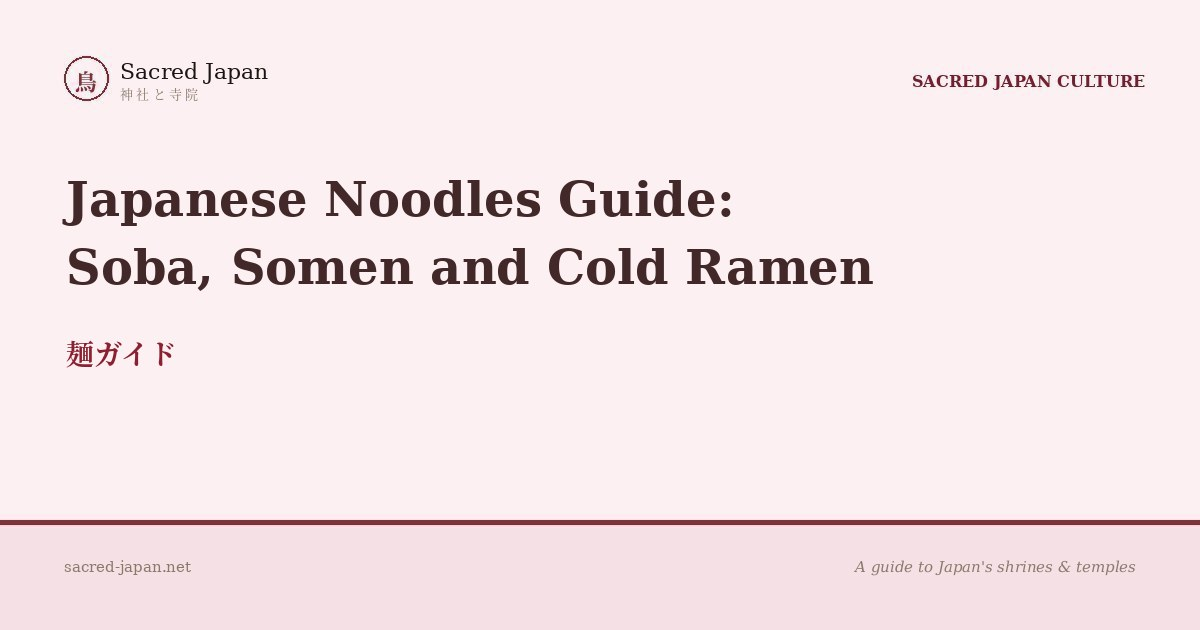
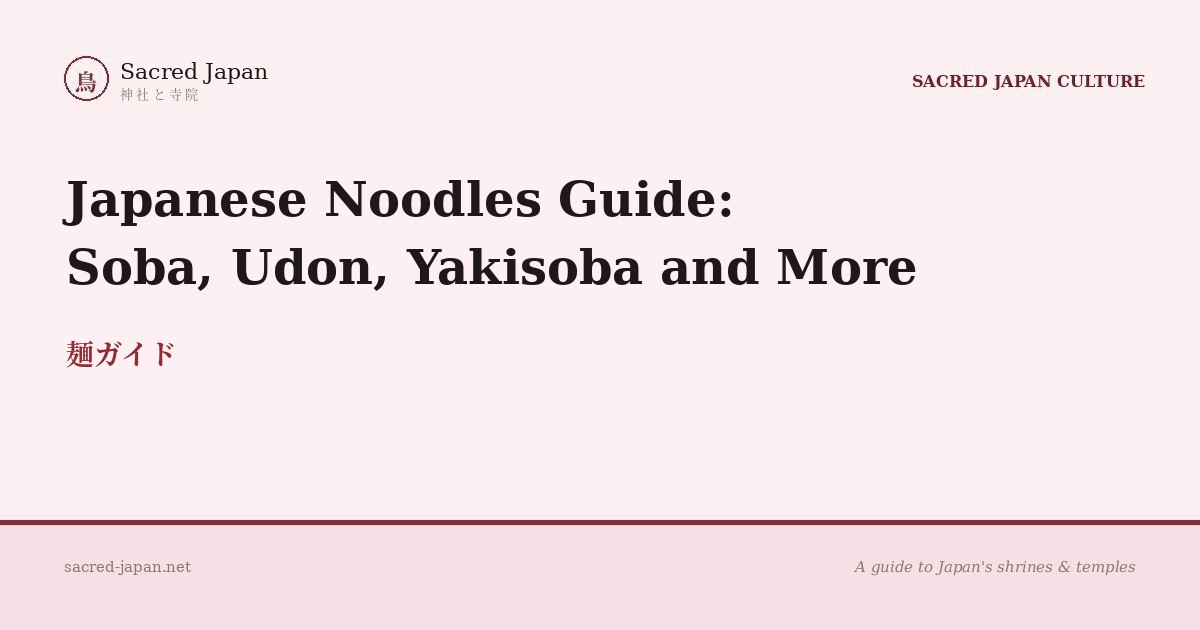
noodles: add udon section, yakisoba/udon photos, Marugame Seimen link, new OGP title
Claude-Session: https://claude.ai/code/session_01YLWmcJo1H8SSeUtyNTQSdC

Changed region(s): [[0.0617, 0.3921, 0.7708, 0.4524], [0.0617, 0.2714, 0.6167, 0.3619]]

diff --git a/culture/noodles/index.html b/culture/noodles/index.html
@@ -5,8 +5,8 @@
 <meta name="viewport" content="width=device-width, initial-scale=1.0">
 
 <!-- ── PRIMARY SEO ── -->
-<title>Japanese Noodles Guide: Soba, Somen, Hiyamugi and Cold Ramen | Sacred Japan</title>
-<meta name="description" content="A licensed guide's English introduction to Japanese noodles beyond ramen: soba, green tea soba, somen, hiyamugi, hiyashi chuka and chuka soba, with photographs and simple tips for ordering.">
+<title>Japanese Noodles Guide: Soba, Udon, Yakisoba, Somen and Cold Ramen | Sacred Japan</title>
+<meta name="description" content="A licensed guide's English introduction to Japanese noodles beyond ramen: soba, green tea soba, somen, hiyamugi, hiyashi chuka, chuka soba, yakisoba and udon, with photographs and simple tips for ordering.">
 <meta name="keywords" content="Japanese noodles, soba, zaru soba, mori soba, cha soba, somen, hiyamugi, hiyashi chuka, chuka soba, cold noodles Japan">
 <meta name="author" content="Sacred Japan">
 <link rel="canonical" href="https://sacred-japan.net/culture/noodles/">
@@ -16,8 +16,8 @@
 <!-- ── OPEN GRAPH ── -->
 <meta property="og:type" content="article">
 <meta property="og:url" content="https://sacred-japan.net/culture/noodles/">
-<meta property="og:title" content="Japanese Noodles Guide: Soba, Somen, Hiyamugi and Cold Ramen">
-<meta property="og:description" content="A licensed guide's English introduction to Japanese noodles beyond ramen: soba, green tea soba, somen, hiyamugi, hiyashi chuka and chuka soba, with photographs and simple tips for ordering.">
+<meta property="og:title" content="Japanese Noodles Guide: Soba, Udon, Yakisoba, Somen and Cold Ramen">
+<meta property="og:description" content="A licensed guide's English introduction to Japanese noodles beyond ramen: soba, green tea soba, somen, hiyamugi, hiyashi chuka, chuka soba, yakisoba and udon, with photographs and simple tips for ordering.">
 <meta property="og:image" content="https://sacred-japan.net/images/og/og-culture-noodles.jpg">
 <meta property="og:image:width" content="1200">
 <meta property="og:image:height" content="630">
@@ -27,8 +27,8 @@
 <!-- ── TWITTER CARD ── -->
 <meta name="twitter:card" content="summary_large_image">
 <meta name="twitter:site" content="@sacredjapan">
-<meta name="twitter:title" content="Japanese Noodles Guide: Soba, Somen, Hiyamugi and Cold Ramen">
-<meta name="twitter:description" content="A licensed guide's English introduction to Japanese noodles beyond ramen: soba, green tea soba, somen, hiyamugi, hiyashi chuka and chuka soba, with photographs and simple tips for ordering.">
+<meta name="twitter:title" content="Japanese Noodles Guide: Soba, Udon, Yakisoba, Somen and Cold Ramen">
+<meta name="twitter:description" content="A licensed guide's English introduction to Japanese noodles beyond ramen: soba, green tea soba, somen, hiyamugi, hiyashi chuka, chuka soba, yakisoba and udon, with photographs and simple tips for ordering.">
 <meta name="twitter:image" content="https://sacred-japan.net/images/og/og-culture-noodles.jpg">
 
 <!-- ── STRUCTURED DATA: Article ── -->
@@ -36,8 +36,8 @@
 {
   "@context": "https://schema.org",
   "@type": "Article",
-  "headline": "Japanese Noodles Guide: Soba, Somen, Hiyamugi and Cold Ramen",
-  "description": "A licensed guide's English introduction to Japanese noodles beyond ramen: soba, green tea soba, somen, hiyamugi, hiyashi chuka and chuka soba, with photographs and simple tips for ordering.",
+  "headline": "Japanese Noodles Guide: Soba, Udon, Yakisoba, Somen and Cold Ramen",
+  "description": "A licensed guide's English introduction to Japanese noodles beyond ramen: soba, green tea soba, somen, hiyamugi, hiyashi chuka, chuka soba, yakisoba and udon, with photographs and simple tips for ordering.",
   "url": "https://sacred-japan.net/culture/noodles/",
   "image": "https://sacred-japan.net/images/og/og-culture-noodles.jpg",
   "inLanguage": "en",
@@ -1106,6 +1106,7 @@ article ul li, article ol li { font-size: 19px; }
       <li><a href="#hiyashi">Hiyashi Chuka: Chilled Ramen Noodles</a></li>
       <li><a href="#chuka-soba">Chuka Soba: A Name for Ramen</a></li>
       <li><a href="#yakisoba">Yakisoba: Stir-Fried Festival Noodles</a></li>
+      <li><a href="#udon">Udon: Thick Wheat Noodles</a></li>
       <li><a href="#faq">Frequently Asked Questions</a></li>
       <li><a href="#final">Final Thoughts</a></li>
     </ol>
@@ -1126,6 +1127,7 @@ article ul li, article ol li { font-size: 19px; }
       <li><strong>Hiyamugi (<span class="jp">冷麦</span>):</strong> thin wheat noodles, slightly thicker than somen.</li>
       <li><strong>Hiyashi chuka (<span class="jp">冷やし中華</span>):</strong> chilled ramen-style noodles with cold toppings.</li>
       <li><strong>Chuka soba (<span class="jp">中華そば</span>):</strong> a name for ramen, often the classic style.</li>
+      <li><strong>Udon (<span class="jp">うどん</span>):</strong> thick wheat noodles, hot or cold, with many regional styles.</li>
       <li><strong>Yakisoba (<span class="jp">焼きそば</span>):</strong> stir-fried wheat noodles with a sweet-savory sauce, the festival-stall classic.</li>
     </ul>
 
@@ -1170,8 +1172,34 @@ article ul li, article ol li { font-size: 19px; }
     <h2 id="yakisoba">Yakisoba: Stir-Fried Festival Noodles<span class="h2-jp">焼きそば</span></h2>
     <p>Despite the name, yakisoba is not made from buckwheat. <a href="https://tokyotreat.com/blog/yakisoba-a-festival-street-food-classic" target="_blank" rel="noopener" onclick="trackEvent('click','external','noodles_tokyotreat')">TokyoTreat</a> says it is made with Chinese wheat noodles (<em>chuka soba</em>), boiled first and then stir-fried with cabbage, onion, carrot and usually pork. <a href="https://japanesecooking101.com/?p=4427" target="_blank" rel="noopener" onclick="trackEvent('click','external','noodles_jc101')">Japanese Cooking 101</a> explains that the noodles are made with an alkaline solution, which gives them a yellow tint and a springy, chewy bite, and that they are sold pre-steamed so they fry without breaking apart.</p>
     <p>The flavor comes from a sweet, thick sauce that is often compared to Worcestershire sauce. Classic toppings are <em>aonori</em> (green seaweed flakes), red pickled ginger and bonito flakes, and some cooks add mayonnaise. <a href="https://tokyotreat.com/blog/yakisoba-a-festival-street-food-classic" target="_blank" rel="noopener" onclick="trackEvent('click','external','noodles_tokyotreat')">TokyoTreat</a> says it is most common at festival stalls, where vendors cook on iron grills, and also sells as microwave boxes at convenience stores and supermarkets.</p>
+    <figure style="margin:36px auto;max-width:640px;">
+      <picture><source srcset="/culture/noodles/images/yakisoba-ota.webp" type="image/webp"><img src="/culture/noodles/images/yakisoba-ota.jpg" alt="Dark brown stir-fried noodles with pieces of cabbage and green seaweed flakes in a clear plastic takeout tray, with a pile of bright red pickled ginger in one corner" loading="lazy" style="width:100%;height:auto;border-radius:4px;display:block;"></picture>
+      <figcaption style="font-size:13px;color:var(--enshu);margin-top:10px;text-align:center;line-height:1.6;">Yakisoba in a takeout tray, with green seaweed flakes and red pickled ginger.<br>Photo: Ocdp, <a href="https://creativecommons.org/publicdomain/zero/1.0/" target="_blank" rel="noopener" style="color:var(--enshu);">CC0</a>, 27 September 2021. Commons describes it as yakisoba from a shop called Momi no Ki in Ota, Gunma. via Wikimedia Commons (resized)</figcaption>
+    </figure>
     <p>On its history, <a href="https://tokyotreat.com/blog/yakisoba-a-festival-street-food-classic" target="_blank" rel="noopener" onclick="trackEvent('click','external','noodles_tokyotreat')">TokyoTreat</a> says the origin is unclear but that Asakusa was known for sauce yakisoba in the 1930s, and that the dish was a typical light meal before World War II. <a href="https://japanesecooking101.com/?p=4427" target="_blank" rel="noopener" onclick="trackEvent('click','external','noodles_jc101')">Japanese Cooking 101</a> traces it to Chinese stir-fried noodles that reached Japan more than a hundred years ago, and says postwar shortages made it a cheap, filling staple. Treat the dates as approximate, since the two sources tell the story differently.</p>
     <p>One more thing to look for is <em>yakisoba-pan</em>, a bread roll filled with yakisoba, which <a href="https://tokyotreat.com/blog/yakisoba-a-festival-street-food-classic" target="_blank" rel="noopener" onclick="trackEvent('click','external','noodles_tokyotreat')">TokyoTreat</a> says turns up at bakeries, convenience stores and school lunches. It also notes variations such as <em>yaki udon</em> in the Kitakyushu/Kokura area, made with udon instead.</p>
+    <figure style="margin:36px auto;max-width:640px;">
+      <picture><source srcset="/culture/noodles/images/yaki-udon.webp" type="image/webp"><img src="/culture/noodles/images/yaki-udon.jpg" alt="Thick stir-fried udon noodles with cabbage, topped with shredded dark nori and a heap of bonito flakes, with a small pile of orange shredded carrot at the side, on a white speckled plate" loading="lazy" style="width:100%;height:auto;border-radius:4px;display:block;"></picture>
+      <figcaption style="font-size:13px;color:var(--enshu);margin-top:10px;text-align:center;line-height:1.6;">Yaki udon topped with nori and bonito flakes.<br>Photo: jetalone, <a href="https://creativecommons.org/licenses/by/2.0/" target="_blank" rel="noopener" style="color:var(--enshu);">CC BY 2.0</a>, 15 May 2007 (Flickr, license reviewed on Commons). Commons notes it was taken at a restaurant in Tsukishima, Tokyo. via Wikimedia Commons (resized)</figcaption>
+    </figure>
+    <p>The bowl above is yaki udon, the same stir-fry with thick udon in place of chuka noodles. Commons notes that this one was photographed in Tsukishima, Tokyo.</p>
+
+    <h2 id="udon">Udon: Thick Wheat Noodles<span class="h2-jp">うどん</span></h2>
+    <p><a href="https://jw-webmagazine.com/types-of-udon" target="_blank" rel="noopener" onclick="trackEvent('click','external','noodles_jw')">JW Web Magazine</a> describes udon as a thick Japanese noodle made of wheat flour, water and salt. It is the third big noodle family after ramen and soba, and it comes hot or cold, plain or with toppings, in styles that change from region to region.</p>
+    <h3>Kamaage Udon</h3>
+    <p>Boiled noodles are normally rinsed in cold water. <a href="https://jw-webmagazine.com/types-of-udon" target="_blank" rel="noopener" onclick="trackEvent('click','external','noodles_jw')">JW Web Magazine</a> says kamaage udon is served without that rinse, which gives the noodles a chewier texture. Shops typically bring it in the hot water it was boiled in, with a dipping sauce and condiments such as scallions on the side. The photo below was taken at a Marugame Seimen shop, a nationwide udon chain; its <a href="https://www.marugame.co.jp/" target="_blank" rel="noopener" onclick="trackEvent('click','external','noodles_marugame')">Marugame Seimen official site (Japanese)</a> is linked here.</p>
+    <figure style="margin:36px auto;max-width:640px;">
+      <picture><source srcset="/culture/noodles/images/kamaage-udon.webp" type="image/webp"><img src="/culture/noodles/images/kamaage-udon.jpg" alt="A round wooden tub holding thick white udon noodles in hot water, on a black tray beside a small bowl of chopped green scallions and a black bowl of dark dipping sauce" loading="lazy" style="width:100%;height:auto;border-radius:4px;display:block;"></picture>
+      <figcaption style="font-size:13px;color:var(--enshu);margin-top:10px;text-align:center;line-height:1.6;">Kamaage udon in its wooden tub, with scallions and dipping sauce.<br>Photo: Lombroso, <a href="https://creativecommons.org/licenses/by-sa/3.0/" target="_blank" rel="noopener" style="color:var(--enshu);">CC BY-SA 3.0</a>, 1 June 2013. Commons says it was taken at a Marugame Seimen shop. via Wikimedia Commons (resized)</figcaption>
+    </figure>
+    <h3>Sanuki and Kitsune</h3>
+    <p><a href="https://jw-webmagazine.com/types-of-udon" target="_blank" rel="noopener" onclick="trackEvent('click','external','noodles_jw')">JW Web Magazine</a> calls Kagawa Prefecture the capital of udon in Japan, and says Sanuki udon is characterized by a softer, watery texture compared with regular udon. It also lists kitsune udon, which is the plain udon in broth topped with <em>abura-age</em>, sweet fried tofu. For more on Sanuki udon as a regional dish, see our <a href="/regional-food/" class="inline-link" onclick="trackEvent('click','internal','noodles_to_regional_food_udon')">regional food guide</a>.</p>
+    <h3>Miso Nikomi Udon</h3>
+    <p><a href="https://japanese-products.blog/2017/09/09/misonikomi-udon-one-of-the-most-famous-dishes-originated-in-nagoya" target="_blank" rel="noopener" onclick="trackEvent('click','external','noodles_misonikomi')">Japanese Products blog</a> describes miso nikomi udon as a Nagoya dish, one of the local specialties called <em>Nagoya meshi</em>. The noodles are simmered in a broth of <em>mame miso</em> (also called Hatcho miso or Nagoya miso), a dark miso made from soybeans, salt and water. The same source says the noodles are made without salt and may be round or flat, like kishimen, and lists chicken, egg, scallions, shiitake and fish cake as typical toppings. It arrives bubbling in its own pot, so let it cool a little before the first bite.</p>
+    <figure style="margin:36px auto;max-width:640px;">
+      <picture><source srcset="/culture/noodles/images/miso-nikomi-udon.webp" type="image/webp"><img src="/culture/noodles/images/miso-nikomi-udon.jpg" alt="Flat, wide udon noodles in a dark brown miso broth in a heavy clay pot, with a raw egg yolk in the middle, slices of pink-and-white fish cake, mushroom and green beans" loading="lazy" style="width:100%;height:auto;border-radius:4px;display:block;"></picture>
+      <figcaption style="font-size:13px;color:var(--enshu);margin-top:10px;text-align:center;line-height:1.6;">Miso nikomi udon, with a raw egg in the middle.<br>Photo: ウィ貴公子, <a href="https://creativecommons.org/licenses/by-sa/4.0/" target="_blank" rel="noopener" style="color:var(--enshu);">CC BY-SA 4.0</a>, 3 September 2023, via Wikimedia Commons (resized)</figcaption>
+    </figure>
 
     <h2 id="how">How to Order and Eat<span class="h2-jp">注文と食べ方</span></h2>
     <p>These are my own habits as a guide, not strict rules.</p>

diff --git a/_tools/culture/noodles.py b/_tools/culture/noodles.py
@@ -5,7 +5,7 @@ A='/mnt/user-data/attachments/fd332c08-3f6b-545a-883b-83277e19ff52/'
 S='noodles'
 OUT=f'{R}/culture/{S}'
 os.makedirs(OUT+'/images',exist_ok=True)
-photos={'mori-soba':('8a68f241-image.jpg',1200),'cha-soba':('1f32f253-image.jpg',1000),'somen-ice':('afeac011-image.jpg',800),'hiyamugi-bowl':('066797f8-image.jpg',1000)}
+photos={'mori-soba':('8a68f241-image.jpg',1200),'cha-soba':('1f32f253-image.jpg',1000),'somen-ice':('afeac011-image.jpg',800),'hiyamugi-bowl':('066797f8-image.jpg',1000),'yakisoba-ota':('430b7bad-image.jpg',1000),'yaki-udon':('0d234ed1-image.jpg',1000),'kamaage-udon':('13f2d4de-image.jpg',1000),'miso-nikomi-udon':('4daefc97-image.jpg',1000)}
 for k,(f,mw) in photos.items():
     im=Image.open(A+f).convert('RGB');w,h=im.size
     if w>mw: im=im.resize((mw,round(h*mw/w)),Image.LANCZOS)
@@ -23,11 +23,18 @@ CC0=lic('CC0','https://creativecommons.org/publicdomain/zero/1.0/')
 BY2=lic('CC BY 2.0','https://creativecommons.org/licenses/by/2.0/')
 BY4=lic('CC BY 4.0','https://creativecommons.org/licenses/by/4.0/')
 BYSA4=lic('CC BY-SA 4.0','https://creativecommons.org/licenses/by-sa/4.0/')
+BY3=lic('CC BY 3.0','https://creativecommons.org/licenses/by/3.0/')
+BYSA3=lic('CC BY-SA 3.0','https://creativecommons.org/licenses/by-sa/3.0/')
 VIA='via Wikimedia Commons (resized)'
 f_mori=fig('mori-soba','A square black frame holding a bamboo mat piled with grey-brown soba noodles, beside a black cup of dark dipping sauce with a red inside and a small black dish of chopped scallions and a dab of green wasabi, on a tray','Mori soba: cold noodles, dipping sauce, scallions and wasabi.',f'Photo: 毒島みるく, {CC0}, 31 August 2019, {VIA}',hero=True)
 f_cha=fig('cha-soba','A tall pile of green-tinted soba noodles topped with shredded dark nori on a black plate with a white-and-black slatted rest','Green-tea-flavored soba, topped with shredded nori.',f'Photo: Pauloleong2002, {BYSA4}, 13 August 2022, {VIA}',maxw=640)
 f_somen=fig('somen-ice','Thin white noodles piled in a glass dish with ice cubes, a green leaf and a halved cherry tomato, in front of a red lacquer tray with sesame seeds, a green citrus, chopped scallions and a pale condiment','Somen on ice, with condiments in a red lacquer tray.',f'Photo: a.koto, {BY2}, 21 August 2007 (Flickr, license reviewed on Commons), {VIA}',maxw=640)
 f_hiya=fig('hiyamugi-bowl','Pale thin noodles with ice cubes in an octagonal glass bowl with a fern pattern, next to a small pale-green cup of brown dipping sauce with mushrooms and small puffed bits, on a wooden table with a checked cloth','Hiyamugi with ice, and a cup of dipping sauce.',f'Photo: RuinDig / Yuki Uchida, {BY4}, 28 August 2023, {VIA}',maxw=640)
+
+f_yakisoba=fig('yakisoba-ota','Dark brown stir-fried noodles with pieces of cabbage and green seaweed flakes in a clear plastic takeout tray, with a pile of bright red pickled ginger in one corner','Yakisoba in a takeout tray, with green seaweed flakes and red pickled ginger.',f'Photo: Ocdp, {CC0}, 27 September 2021. Commons describes it as yakisoba from a shop called Momi no Ki in Ota, Gunma. {VIA}',maxw=640)
+f_yakiudon=fig('yaki-udon','Thick stir-fried udon noodles with cabbage, topped with shredded dark nori and a heap of bonito flakes, with a small pile of orange shredded carrot at the side, on a white speckled plate','Yaki udon topped with nori and bonito flakes.',f'Photo: jetalone, {BY2}, 15 May 2007 (Flickr, license reviewed on Commons). Commons notes it was taken at a restaurant in Tsukishima, Tokyo. {VIA}',maxw=640)
+f_kamaage=fig('kamaage-udon','A round wooden tub holding thick white udon noodles in hot water, on a black tray beside a small bowl of chopped green scallions and a black bowl of dark dipping sauce','Kamaage udon in its wooden tub, with scallions and dipping sauce.',f'Photo: Lombroso, {BYSA3}, 1 June 2013. Commons says it was taken at a Marugame Seimen shop. {VIA}',maxw=640)
+f_miso=fig('miso-nikomi-udon','Flat, wide udon noodles in a dark brown miso broth in a heavy clay pot, with a raw egg yolk in the middle, slices of pink-and-white fish cake, mushroom and green beans','Miso nikomi udon, with a raw egg in the middle.',f'Photo: ウィ貴公子, {BYSA4}, 3 September 2023, {VIA}',maxw=640)
 def link(href,txt,lab): return f'<a href="{href}" class="inline-link" onclick="trackEvent(\'click\',\'internal\',\'{lab}\')">{txt}</a>'
 def ext(href,txt,lab): return f'<a href="{href}" target="_blank" rel="noopener" onclick="trackEvent(\'click\',\'external\',\'{lab}\')">{txt}</a>'
 VI='https://www.viator.com/search/Japan+food+tour?pid=P00298374&amp;mcid=42383&amp;medium=link&amp;campaign=sacred-japan'
@@ -35,6 +42,9 @@ JG=ext('https://www.japan-guide.com/r/e104.html','japan-guide','noodles_japangui
 NIP=ext('https://www.nippon.com/en/japan-data/h02034/somen-and-hiyamugi-defining-japanese-summer-noodles.html','Nippon.com','noodles_nippon')
 WK=ext('https://en.wikipedia.org/wiki/Ramen','Wikipedia','noodles_wiki_ramen')
 TT=ext('https://tokyotreat.com/blog/yakisoba-a-festival-street-food-classic','TokyoTreat','noodles_tokyotreat')
+JW=ext('https://jw-webmagazine.com/types-of-udon','JW Web Magazine','noodles_jw')
+MG=ext('https://www.marugame.co.jp/','Marugame Seimen official site (Japanese)','noodles_marugame')
+MN=ext('https://japanese-products.blog/2017/09/09/misonikomi-udon-one-of-the-most-famous-dishes-originated-in-nagoya','Japanese Products blog','noodles_misonikomi')
 JC=ext('https://japanesecooking101.com/?p=4427','Japanese Cooking 101','noodles_jc101')
 RTE=ext('https://japan.recipetineats.com/hiyashi-chuka-cold-ramen/','RecipeTin Japan','noodles_rte')
 PRODBLOG=ext('https://japanese-products.blog/2018/03/22/zaru-soba-mori-soba-seiro-soba','Japanese Products blog','noodles_products')
@@ -52,8 +62,8 @@ faq_html=''.join(f'''      <details class="faq-item">
 
 ''' for q,a in faqs)
 faq_ld=json.dumps({"@context":"https://schema.org","@type":"FAQPage","mainEntity":[{"@type":"Question","name":q,"acceptedAnswer":{"@type":"Answer","text":a}} for q,a in faqs]},ensure_ascii=False,indent=2)
-TITLE="Japanese Noodles Guide: Soba, Somen, Hiyamugi and Cold Ramen"
-DESC="A licensed guide's English introduction to Japanese noodles beyond ramen: soba, green tea soba, somen, hiyamugi, hiyashi chuka and chuka soba, with photographs and simple tips for ordering."
+TITLE="Japanese Noodles Guide: Soba, Udon, Yakisoba, Somen and Cold Ramen"
+DESC="A licensed guide's English introduction to Japanese noodles beyond ramen: soba, green tea soba, somen, hiyamugi, hiyashi chuka, chuka soba, yakisoba and udon, with photographs and simple tips for ordering."
 URL=f"https://sacred-japan.net/culture/{S}/"
 OG="https://sacred-japan.net/images/og/og-culture-noodles.jpg"
 main=f'''<main>
@@ -72,6 +82,7 @@ main=f'''<main>
       <li><a href="#hiyashi">Hiyashi Chuka: Chilled Ramen Noodles</a></li>
       <li><a href="#chuka-soba">Chuka Soba: A Name for Ramen</a></li>
       <li><a href="#yakisoba">Yakisoba: Stir-Fried Festival Noodles</a></li>
+      <li><a href="#udon">Udon: Thick Wheat Noodles</a></li>
       <li><a href="#faq">Frequently Asked Questions</a></li>
       <li><a href="#final">Final Thoughts</a></li>
     </ol>
@@ -92,6 +103,7 @@ main=f'''<main>
       <li><strong>Hiyamugi (<span class="jp">冷麦</span>):</strong> thin wheat noodles, slightly thicker than somen.</li>
       <li><strong>Hiyashi chuka (<span class="jp">冷やし中華</span>):</strong> chilled ramen-style noodles with cold toppings.</li>
       <li><strong>Chuka soba (<span class="jp">中華そば</span>):</strong> a name for ramen, often the classic style.</li>
+      <li><strong>Udon (<span class="jp">うどん</span>):</strong> thick wheat noodles, hot or cold, with many regional styles.</li>
       <li><strong>Yakisoba (<span class="jp">焼きそば</span>):</strong> stir-fried wheat noodles with a sweet-savory sauce, the festival-stall classic.</li>
     </ul>
 
@@ -127,8 +139,22 @@ main=f'''<main>
     <h2 id="yakisoba">Yakisoba: Stir-Fried Festival Noodles<span class="h2-jp">焼きそば</span></h2>
     <p>Despite the name, yakisoba is not made from buckwheat. {TT} says it is made with Chinese wheat noodles (<em>chuka soba</em>), boiled first and then stir-fried with cabbage, onion, carrot and usually pork. {JC} explains that the noodles are made with an alkaline solution, which gives them a yellow tint and a springy, chewy bite, and that they are sold pre-steamed so they fry without breaking apart.</p>
     <p>The flavor comes from a sweet, thick sauce that is often compared to Worcestershire sauce. Classic toppings are <em>aonori</em> (green seaweed flakes), red pickled ginger and bonito flakes, and some cooks add mayonnaise. {TT} says it is most common at festival stalls, where vendors cook on iron grills, and also sells as microwave boxes at convenience stores and supermarkets.</p>
+    {f_yakisoba}
     <p>On its history, {TT} says the origin is unclear but that Asakusa was known for sauce yakisoba in the 1930s, and that the dish was a typical light meal before World War II. {JC} traces it to Chinese stir-fried noodles that reached Japan more than a hundred years ago, and says postwar shortages made it a cheap, filling staple. Treat the dates as approximate, since the two sources tell the story differently.</p>
     <p>One more thing to look for is <em>yakisoba-pan</em>, a bread roll filled with yakisoba, which {TT} says turns up at bakeries, convenience stores and school lunches. It also notes variations such as <em>yaki udon</em> in the Kitakyushu/Kokura area, made with udon instead.</p>
+    {f_yakiudon}
+    <p>The bowl above is yaki udon, the same stir-fry with thick udon in place of chuka noodles. Commons notes that this one was photographed in Tsukishima, Tokyo.</p>
+
+    <h2 id="udon">Udon: Thick Wheat Noodles<span class="h2-jp">うどん</span></h2>
+    <p>{JW} describes udon as a thick Japanese noodle made of wheat flour, water and salt. It is the third big noodle family after ramen and soba, and it comes hot or cold, plain or with toppings, in styles that change from region to region.</p>
+    <h3>Kamaage Udon</h3>
+    <p>Boiled noodles are normally rinsed in cold water. {JW} says kamaage udon is served without that rinse, which gives the noodles a chewier texture. Shops typically bring it in the hot water it was boiled in, with a dipping sauce and condiments such as scallions on the side. The photo below was taken at a Marugame Seimen shop, a nationwide udon chain; its {MG} is linked here.</p>
+    {f_kamaage}
+    <h3>Sanuki and Kitsune</h3>
+    <p>{JW} calls Kagawa Prefecture the capital of udon in Japan, and says Sanuki udon is characterized by a softer, watery texture compared with regular udon. It also lists kitsune udon, which is the plain udon in broth topped with <em>abura-age</em>, sweet fried tofu. For more on Sanuki udon as a regional dish, see our {link('/regional-food/','regional food guide','noodles_to_regional_food_udon')}.</p>
+    <h3>Miso Nikomi Udon</h3>
+    <p>{MN} describes miso nikomi udon as a Nagoya dish, one of the local specialties called <em>Nagoya meshi</em>. The noodles are simmered in a broth of <em>mame miso</em> (also called Hatcho miso or Nagoya miso), a dark miso made from soybeans, salt and water. The same source says the noodles are made without salt and may be round or flat, like kishimen, and lists chicken, egg, scallions, shiitake and fish cake as typical toppings. It arrives bubbling in its own pot, so let it cool a little before the first bite.</p>
+    {f_miso}
 
     <h2 id="how">How to Order and Eat<span class="h2-jp">注文と食べ方</span></h2>
     <p>These are my own habits as a guide, not strict rules.</p>

diff --git a/CLAUDE.md b/CLAUDE.md
@@ -379,3 +379,4 @@
 - 2026-11-08 japanese-sweets：せんべいを亀田製菓（Kameda Seika）に変更し公式英語ページへリンク（kamedaseika.co.jp/en/company/rice-cracker-business/）。同社の主張として国内米菓シェア30%・1975年から首位・亀田の柿の種ピーナッツ入り1966発売・ハッピーターン（会社自身の記述と明記）。公式リンクは計6品。ユーザー提案：メジャーな商品を選ぶとブランド公式リンクを付けやすい。【未確認】キットカット（ネスレ日本）、ゆきみだいふく（ロッテ）、文明堂/福砂屋のURLはallowlist外で確認できず
 - 2026-11-08 japanese-sweets：ユーザー提供の公式URLを追加（こちらでは取得未確認）：キットカット＝kitkat.com（グローバルサイト）／カステラ＝文明堂 bunmeido.co.jp（srsltidパラメータは除去）／大福＝ロッテ ゆきみだいふく lotte.co.jp/products/brand/yukimi/（日本語ページ、Trip to Japanがゆきみだいふくをコンビニのもち入りアイスとして挙げている旨を本文に追記）。公式リンクは計9品。リンクなし＝どら焼きのみ
 - 2026-11-08 culture/noodles：焼きそば節（#yakisoba）を追加。出典：TokyoTreat（chuka soba麺・festival stalls・1930年代浅草のソース焼きそば・焼きそばパン・北九州の焼うどん）／Japanese Cooking 101（アルカリ麺・戦後の安価な主食・100年以上前に中国の炒麺が伝来）。起源は資料間で語りが違うため『approximate』と明記。写真なし。【未対応】焼きそばの写真（Commons）、うどんの節（未作成）、インデックス登録
+- 2026-11-08 culture/noodles：焼きそば写真（Ocdp CC0・2021-09-27、太田市「もみの木」とCommons説明）と新節「Udon」（釜揚げ：Lombroso CC BY-SA 3.0・2013-06-01、丸亀製麺の店とCommons説明／讃岐・きつね／味噌煮込み：ウィ貴公子 CC BY-SA 4.0・2023-09-03）、焼うどん（jetalone CC BY 2.0・2007-05-15、月島）を追加。出典：JW Web Magazine／Japanese Products blog。丸亀製麺の公式URL www.marugame.co.jp はユーザー提供（こちらでは取得未確認）。タイトル・descも更新。【保留】土鍋のカレーうどん風の写真（ライセンス不明＝スクショ待ち）。OGPタイトル再生成済み。【未対応】インデックス登録
